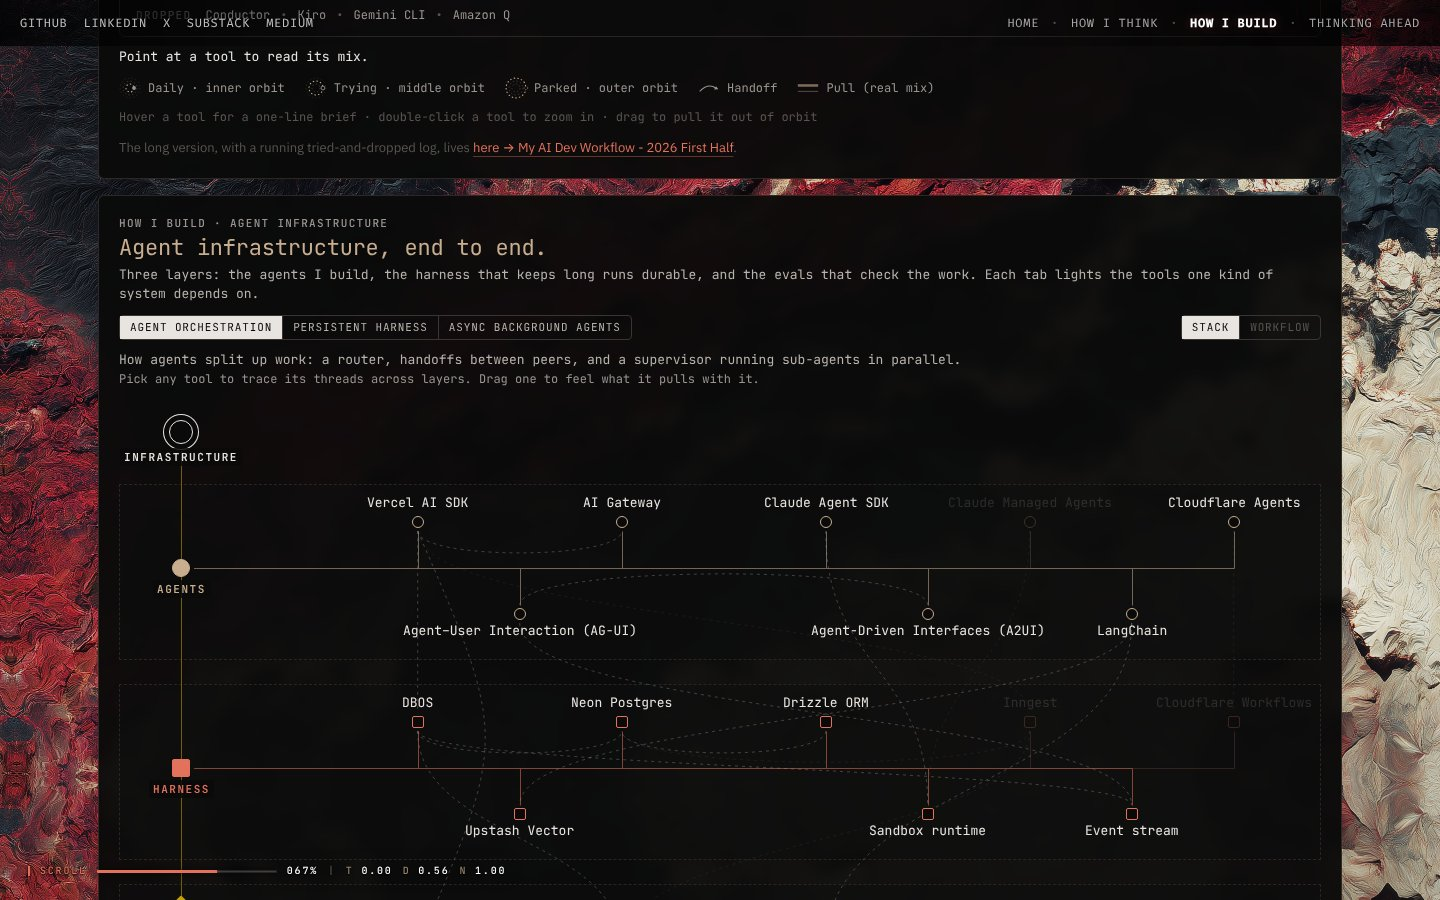
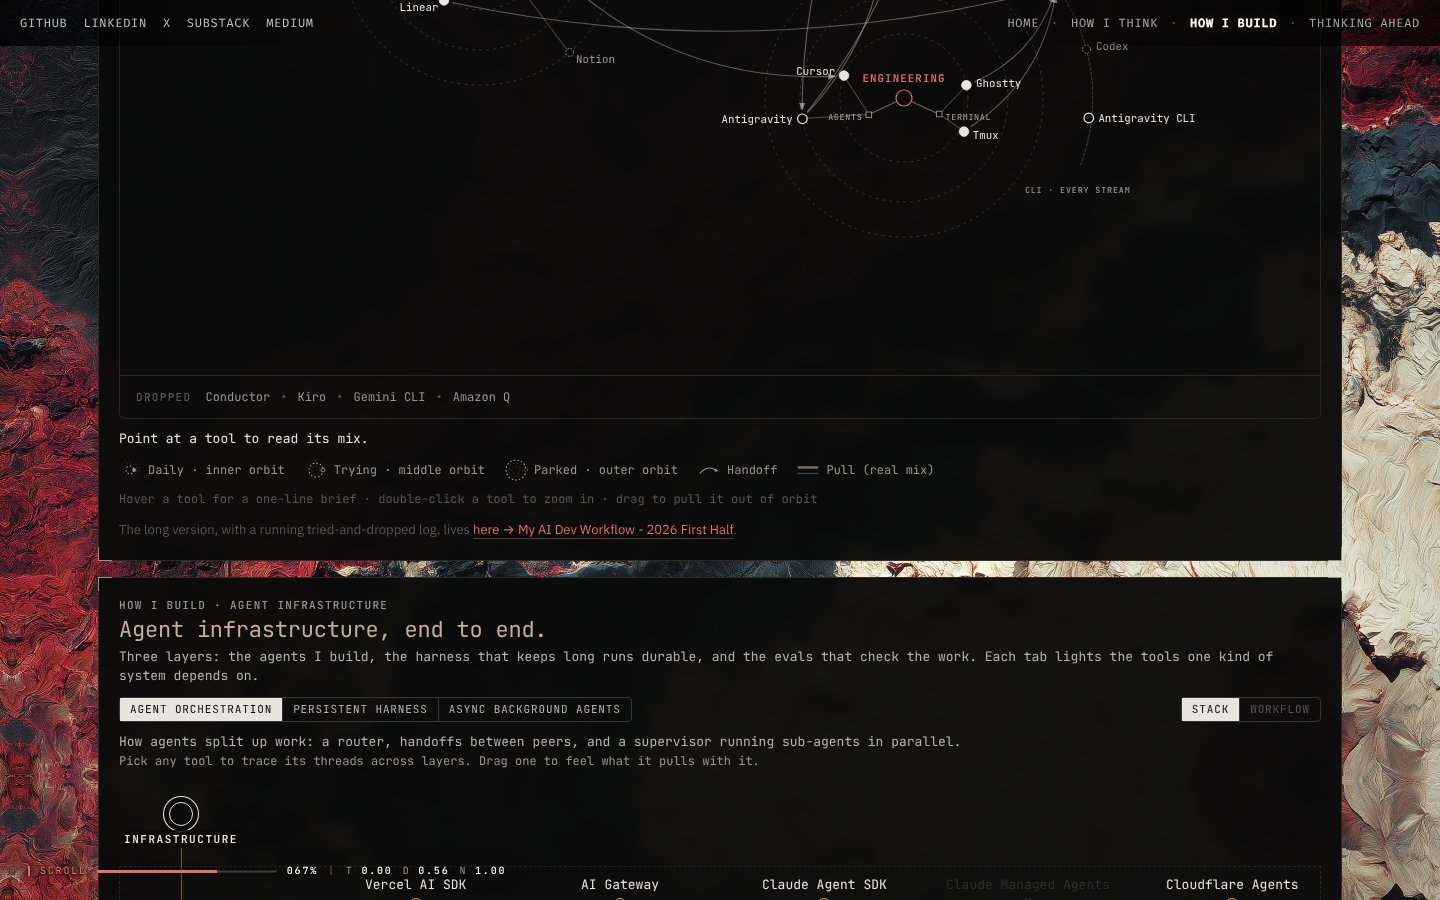
How I build: plate-style panel edges
Both panels drop their rounded corners and take the How I think plate
edge: square corners, the 1px latte border and four 14px corner
brackets. The stage's inner rounded border stays.

Claude-Session: https://claude.ai/code/session_01HZ6Ui6Lb3BzD6S9jfSN3FF

diff --git a/app/components/sections/weave-stack/weave-stack.css b/app/components/sections/weave-stack/weave-stack.css
@@ -16,7 +16,6 @@
   width: min(1244px, calc(100vw - 48px));
   padding: 20px;
   border: 1px solid rgba(200, 173, 143, 0.18);
-  border-radius: 6px;
   /* Translucent over the terrain, matching the How I think plates. */
   background: rgba(10, 10, 10, 0.96);
   /* Set by the camera while the section fades in and out (see SectionCard `tall`). */
@@ -103,3 +102,17 @@
 @media (prefers-reduced-motion: reduce) {
   .ws-root .node, .ws-root .seg button[aria-disabled="true"]::after { transition: none; }
 }
+
+/* Panel edge, matching the How I think plates: square corners, 1px latte
+   border, and four 14px corner brackets. The panel draws the top two; the
+   .corners span draws the bottom two. */
+.ws-root { position: relative; }
+.ws-root::before, .ws-root::after, .ws-root > .corners::before, .ws-root > .corners::after {
+  content: ""; position: absolute; width: 14px; height: 14px; pointer-events: none;
+  border: 0 solid rgba(232, 228, 224, 0.55);
+}
+.ws-root > .corners { position: absolute; inset: 0; pointer-events: none; }
+.ws-root::before { top: -1px; left: -1px; border-top-width: 1px; border-left-width: 1px; }
+.ws-root::after { top: -1px; right: -1px; border-top-width: 1px; border-right-width: 1px; }
+.ws-root > .corners::before { bottom: -1px; left: -1px; border-bottom-width: 1px; border-left-width: 1px; }
+.ws-root > .corners::after { bottom: -1px; right: -1px; border-bottom-width: 1px; border-right-width: 1px; }

diff --git a/app/components/sections/gravity-wells/gravity-wells.css b/app/components/sections/gravity-wells/gravity-wells.css
@@ -31,7 +31,6 @@
   width: min(1244px, calc(100vw - 48px));
   padding: 20px;
   border: 1px solid rgba(200, 173, 143, 0.18);
-  border-radius: 6px;
   background: var(--panel);
   backdrop-filter: blur(6px) saturate(120%);
   -webkit-backdrop-filter: blur(6px) saturate(120%);
@@ -179,3 +178,17 @@
 @media (prefers-reduced-motion: reduce) {
   .gw-root .ring, .gw-root .coreg, .gw-root button { transition: none; }
 }
+
+/* Panel edge, matching the How I think plates: square corners, 1px latte
+   border, and four 14px corner brackets. The panel draws the top two; the
+   .corners span draws the bottom two. */
+.gw-root { position: relative; }
+.gw-root::before, .gw-root::after, .gw-root > .corners::before, .gw-root > .corners::after {
+  content: ""; position: absolute; width: 14px; height: 14px; pointer-events: none;
+  border: 0 solid rgba(232, 228, 224, 0.55);
+}
+.gw-root > .corners { position: absolute; inset: 0; pointer-events: none; }
+.gw-root::before { top: -1px; left: -1px; border-top-width: 1px; border-left-width: 1px; }
+.gw-root::after { top: -1px; right: -1px; border-top-width: 1px; border-right-width: 1px; }
+.gw-root > .corners::before { bottom: -1px; left: -1px; border-bottom-width: 1px; border-left-width: 1px; }
+.gw-root > .corners::after { bottom: -1px; right: -1px; border-bottom-width: 1px; border-right-width: 1px; }

diff --git a/app/components/sections/weave-stack/weave-stack-graph.tsx b/app/components/sections/weave-stack/weave-stack-graph.tsx
@@ -77,6 +77,7 @@ export const WeaveStackGraph = forwardRef<HTMLDivElement, Props>(
         aria-label="Agent infrastructure stack"
         role="region"
       >
+        <span className="corners" aria-hidden="true" />
         <div className="holder" data-ws="holder">
           <div className="art" data-ws="art">
             <header className="head">

diff --git a/app/components/sections/gravity-wells/gravity-wells-graph.tsx b/app/components/sections/gravity-wells/gravity-wells-graph.tsx
@@ -69,6 +69,7 @@ export function GravityWellsGraph({ titleId, active }: Props) {
 
   return (
     <div ref={rootRef} className="gw-root" style={fonts}>
+      <span className="corners" aria-hidden="true" />
       <header className="gw-head">
         <p className="eyebrow">How I build · AI dev workflow</p>
         <h2 id={titleId}>Gravity wells</h2>
